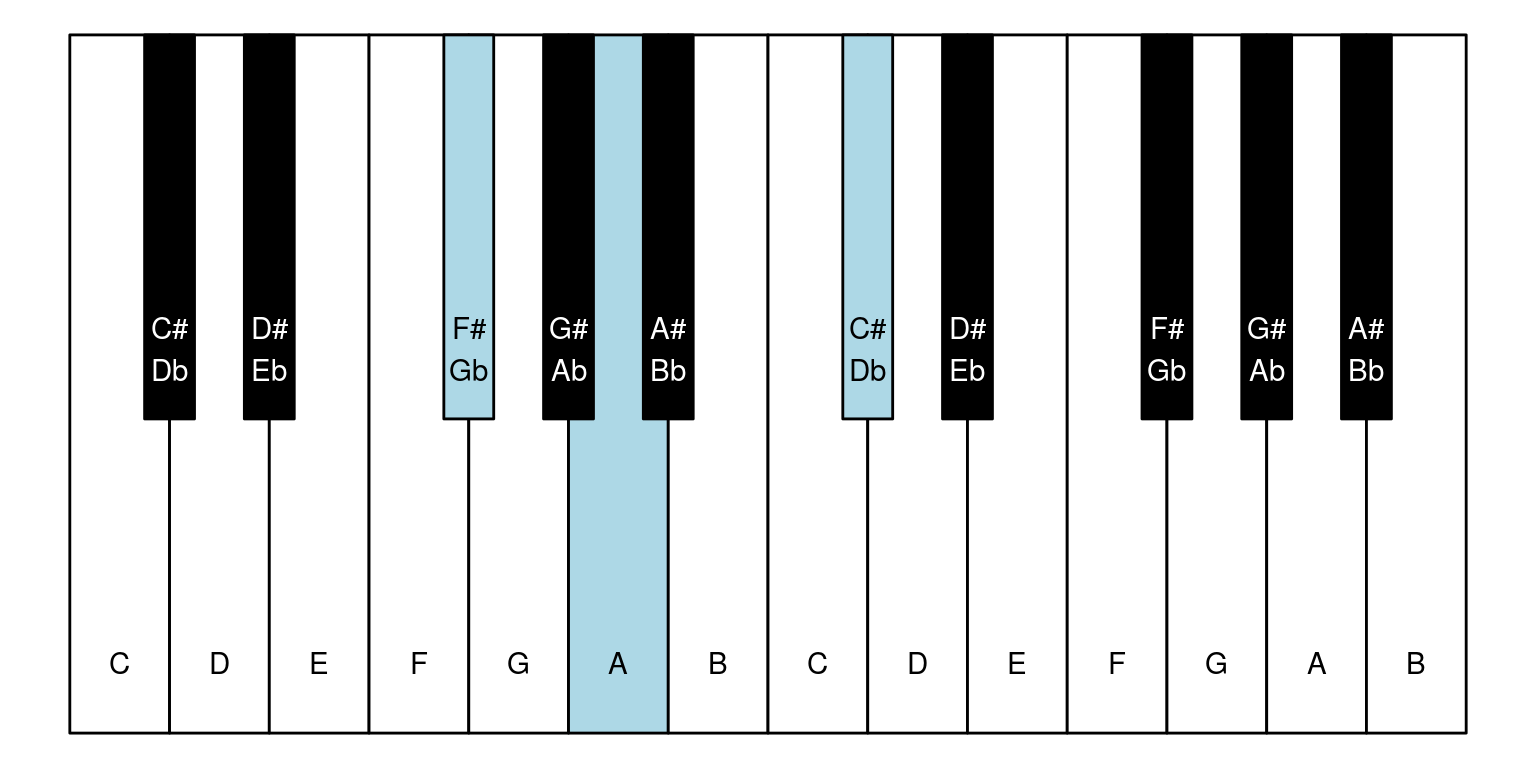
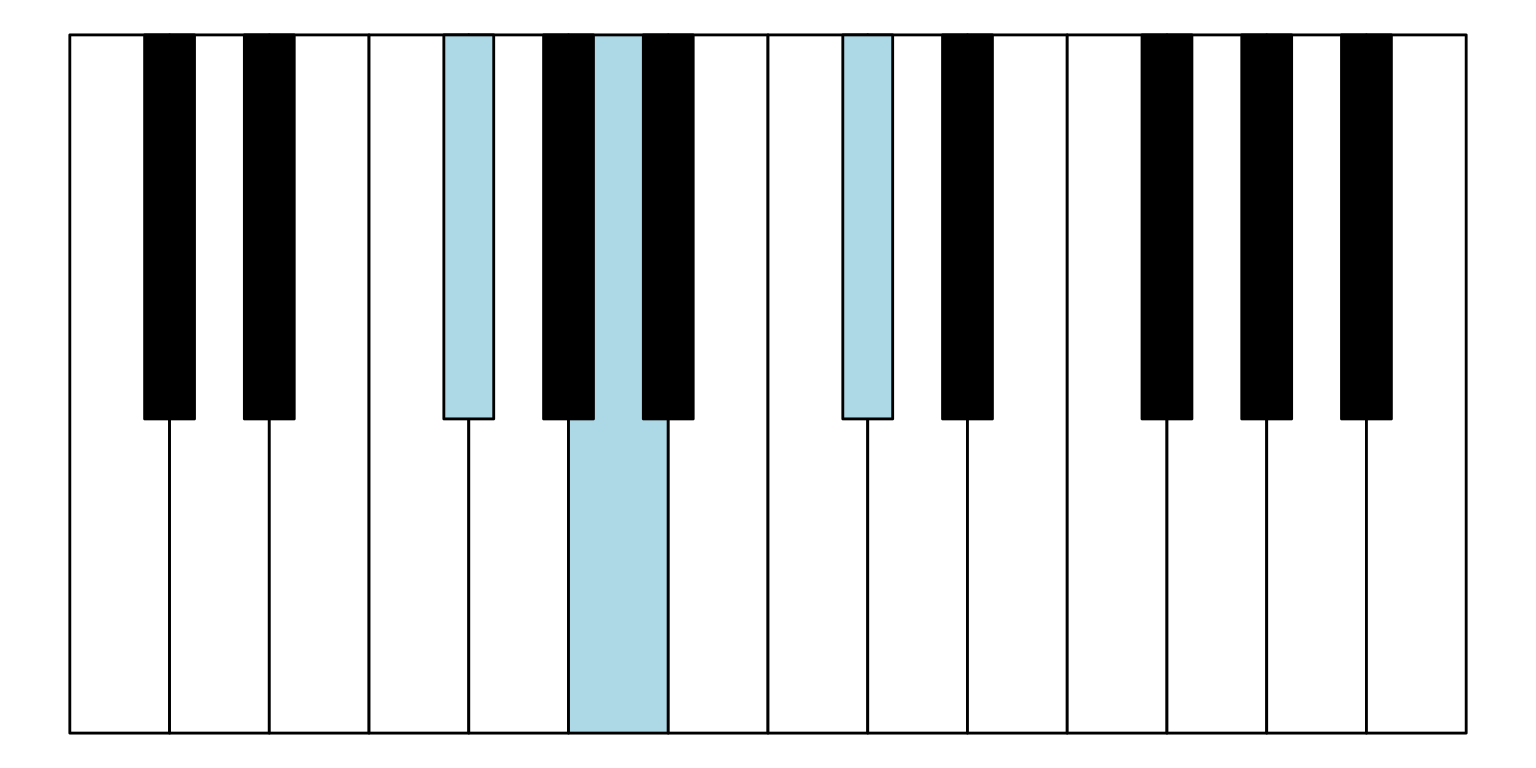
Changing to default labels = FALSE in ggpiano()

diff --git a/docs/articles/chord-sequence.html b/docs/articles/chord-sequence.html
@@ -100,7 +100,7 @@
 <a href="#minimal-example" class="anchor"></a>Minimal example</h1>
 <div class="sourceCode" id="cb2"><pre class="sourceCode r"><code class="sourceCode r"><a class="sourceLine" id="cb2-1" title="1">keys_coords <span class="op">%&gt;%</span><span class="st"> </span></a>
 <a class="sourceLine" id="cb2-2" title="2"><span class="st">  </span><span class="kw"><a href="../reference/highlight_key_sequence.html">highlight_key_sequence</a></span>(<span class="dt">key_sequence =</span> <span class="kw"><a href="https://www.rdocumentation.org/packages/base/topics/list">list</a></span>(<span class="kw"><a href="https://www.rdocumentation.org/packages/base/topics/c">c</a></span>(<span class="dv">1</span>, <span class="dv">2</span>, <span class="dv">3</span>), <span class="kw"><a href="https://www.rdocumentation.org/packages/base/topics/c">c</a></span>(<span class="dv">2</span>, <span class="dv">3</span>, <span class="dv">4</span>))) <span class="op">%&gt;%</span><span class="st"> </span></a>
-<a class="sourceLine" id="cb2-3" title="3"><span class="st">  </span><span class="kw"><a href="../reference/ggpiano.html">ggpiano</a></span>(<span class="dt">labels =</span> <span class="ot">FALSE</span>) <span class="op">+</span><span class="st"> </span></a>
+<a class="sourceLine" id="cb2-3" title="3"><span class="st">  </span><span class="kw"><a href="../reference/ggpiano.html">ggpiano</a></span>() <span class="op">+</span><span class="st"> </span></a>
 <a class="sourceLine" id="cb2-4" title="4"><span class="st">  </span><span class="kw"><a href="https://www.rdocumentation.org/packages/ggplot2/topics/facet_wrap">facet_wrap</a></span>(<span class="op">~</span><span class="st"> </span>seq_no)</a></code></pre></div>
 <p><img src="chord-sequence_files/figure-html/unnamed-chunk-2-1.png" width="768"></p>
 </div>
@@ -140,7 +140,7 @@
 <div class="sourceCode" id="cb4"><pre class="sourceCode r"><code class="sourceCode r"><a class="sourceLine" id="cb4-1" title="1">key_seq &lt;-<span class="st"> </span><span class="kw"><a href="https://www.rdocumentation.org/packages/base/topics/lapply">lapply</a></span>(chords, get_keys)</a></code></pre></div>
 <div class="sourceCode" id="cb5"><pre class="sourceCode r"><code class="sourceCode r"><a class="sourceLine" id="cb5-1" title="1">keys_coords <span class="op">%&gt;%</span><span class="st"> </span></a>
 <a class="sourceLine" id="cb5-2" title="2"><span class="st">  </span><span class="kw"><a href="../reference/highlight_key_sequence.html">highlight_key_sequence</a></span>(<span class="dt">key_sequence =</span> key_seq) <span class="op">%&gt;%</span><span class="st"> </span></a>
-<a class="sourceLine" id="cb5-3" title="3"><span class="st">  </span><span class="kw"><a href="../reference/ggpiano.html">ggpiano</a></span>(<span class="dt">labels =</span> <span class="ot">FALSE</span>) <span class="op">+</span><span class="st"> </span></a>
+<a class="sourceLine" id="cb5-3" title="3"><span class="st">  </span><span class="kw"><a href="../reference/ggpiano.html">ggpiano</a></span>() <span class="op">+</span><span class="st"> </span></a>
 <a class="sourceLine" id="cb5-4" title="4"><span class="st">  </span><span class="kw"><a href="https://www.rdocumentation.org/packages/ggplot2/topics/facet_wrap">facet_wrap</a></span>(<span class="op">~</span><span class="st"> </span>seq_no)</a></code></pre></div>
 <p><img src="chord-sequence_files/figure-html/unnamed-chunk-5-1.png" width="768"></p>
 <p>And get more helpful facet panel title:</p>
@@ -161,7 +161,7 @@
 <div class="sourceCode" id="cb7"><pre class="sourceCode r"><code class="sourceCode r"><a class="sourceLine" id="cb7-1" title="1">keys_coords <span class="op">%&gt;%</span><span class="st"> </span></a>
 <a class="sourceLine" id="cb7-2" title="2"><span class="st">  </span><span class="kw"><a href="../reference/highlight_key_sequence.html">highlight_key_sequence</a></span>(<span class="dt">key_sequence =</span> key_seq) <span class="op">%&gt;%</span><span class="st"> </span></a>
 <a class="sourceLine" id="cb7-3" title="3"><span class="st">  </span><span class="kw"><a href="https://dplyr.tidyverse.org/reference/join.html">left_join</a></span>(d_chord_nms, <span class="dt">by =</span> <span class="st">"seq_no"</span>) <span class="op">%&gt;%</span><span class="st"> </span></a>
-<a class="sourceLine" id="cb7-4" title="4"><span class="st">  </span><span class="kw"><a href="../reference/ggpiano.html">ggpiano</a></span>(<span class="dt">labels =</span> <span class="ot">FALSE</span>) <span class="op">+</span><span class="st"> </span></a>
+<a class="sourceLine" id="cb7-4" title="4"><span class="st">  </span><span class="kw"><a href="../reference/ggpiano.html">ggpiano</a></span>() <span class="op">+</span><span class="st"> </span></a>
 <a class="sourceLine" id="cb7-5" title="5"><span class="st">  </span><span class="kw"><a href="https://www.rdocumentation.org/packages/ggplot2/topics/facet_wrap">facet_wrap</a></span>(<span class="op">~</span><span class="st"> </span>seq_lbl)</a></code></pre></div>
 <p><img src="chord-sequence_files/figure-html/unnamed-chunk-7-1.png" width="768"></p>
 </div>
@@ -174,14 +174,14 @@ And with an exhaustive approach that is only feasible for shorter sequences.</p>
 <div class="sourceCode" id="cb9"><pre class="sourceCode r"><code class="sourceCode r"><a class="sourceLine" id="cb9-1" title="1">keys_coords <span class="op">%&gt;%</span><span class="st"> </span></a>
 <a class="sourceLine" id="cb9-2" title="2"><span class="st">  </span><span class="kw"><a href="../reference/highlight_key_sequence.html">highlight_key_sequence</a></span>(<span class="dt">key_sequence =</span> opt_res<span class="op">$</span>best) <span class="op">%&gt;%</span><span class="st"> </span></a>
 <a class="sourceLine" id="cb9-3" title="3"><span class="st">  </span><span class="kw"><a href="https://dplyr.tidyverse.org/reference/join.html">left_join</a></span>(d_chord_nms, <span class="dt">by =</span> <span class="st">"seq_no"</span>) <span class="op">%&gt;%</span><span class="st"> </span></a>
-<a class="sourceLine" id="cb9-4" title="4"><span class="st">  </span><span class="kw"><a href="../reference/ggpiano.html">ggpiano</a></span>(<span class="dt">labels =</span> <span class="ot">FALSE</span>) <span class="op">+</span><span class="st"> </span></a>
+<a class="sourceLine" id="cb9-4" title="4"><span class="st">  </span><span class="kw"><a href="../reference/ggpiano.html">ggpiano</a></span>() <span class="op">+</span><span class="st"> </span></a>
 <a class="sourceLine" id="cb9-5" title="5"><span class="st">  </span><span class="kw"><a href="https://www.rdocumentation.org/packages/ggplot2/topics/facet_wrap">facet_wrap</a></span>(<span class="op">~</span><span class="st"> </span>seq_lbl) <span class="op">+</span></a>
 <a class="sourceLine" id="cb9-6" title="6"><span class="st">  </span><span class="kw"><a href="https://www.rdocumentation.org/packages/ggplot2/topics/labs">labs</a></span>(<span class="dt">title =</span> <span class="st">"Best inversions"</span>)</a></code></pre></div>
 <p><img src="chord-sequence_files/figure-html/unnamed-chunk-9-1.png" width="768"></p>
 <div class="sourceCode" id="cb10"><pre class="sourceCode r"><code class="sourceCode r"><a class="sourceLine" id="cb10-1" title="1">keys_coords <span class="op">%&gt;%</span><span class="st"> </span></a>
 <a class="sourceLine" id="cb10-2" title="2"><span class="st">  </span><span class="kw"><a href="../reference/highlight_key_sequence.html">highlight_key_sequence</a></span>(<span class="dt">key_sequence =</span> opt_res<span class="op">$</span>worst) <span class="op">%&gt;%</span><span class="st"> </span></a>
 <a class="sourceLine" id="cb10-3" title="3"><span class="st">  </span><span class="kw"><a href="https://dplyr.tidyverse.org/reference/join.html">left_join</a></span>(d_chord_nms, <span class="dt">by =</span> <span class="st">"seq_no"</span>) <span class="op">%&gt;%</span><span class="st"> </span></a>
-<a class="sourceLine" id="cb10-4" title="4"><span class="st">  </span><span class="kw"><a href="../reference/ggpiano.html">ggpiano</a></span>(<span class="dt">labels =</span> <span class="ot">FALSE</span>) <span class="op">+</span><span class="st"> </span></a>
+<a class="sourceLine" id="cb10-4" title="4"><span class="st">  </span><span class="kw"><a href="../reference/ggpiano.html">ggpiano</a></span>() <span class="op">+</span><span class="st"> </span></a>
 <a class="sourceLine" id="cb10-5" title="5"><span class="st">  </span><span class="kw"><a href="https://www.rdocumentation.org/packages/ggplot2/topics/facet_wrap">facet_wrap</a></span>(<span class="op">~</span><span class="st"> </span>seq_lbl) <span class="op">+</span></a>
 <a class="sourceLine" id="cb10-6" title="6"><span class="st">  </span><span class="kw"><a href="https://www.rdocumentation.org/packages/ggplot2/topics/labs">labs</a></span>(<span class="dt">title =</span> <span class="st">"Worst inversions"</span>)</a></code></pre></div>
 <p><img src="chord-sequence_files/figure-html/unnamed-chunk-10-1.png" width="768"></p>

diff --git a/docs/articles/introduction.html b/docs/articles/introduction.html
@@ -114,13 +114,13 @@
 <p>Details for drawing a diagram of a piano:</p>
 <div class="sourceCode" id="cb3"><pre class="sourceCode r"><code class="sourceCode r"><a class="sourceLine" id="cb3-1" title="1"><span class="kw"><a href="../reference/ggpiano.html">ggpiano</a></span>(keys_coords)</a></code></pre></div>
 <p><img src="introduction_files/figure-html/unnamed-chunk-3-1.png" width="768"></p>
-<p>Remove key labels:</p>
-<div class="sourceCode" id="cb4"><pre class="sourceCode r"><code class="sourceCode r"><a class="sourceLine" id="cb4-1" title="1"><span class="kw"><a href="../reference/ggpiano.html">ggpiano</a></span>(keys_coords, <span class="dt">labels =</span> <span class="ot">FALSE</span>)</a></code></pre></div>
+<p>Add key labels:</p>
+<div class="sourceCode" id="cb4"><pre class="sourceCode r"><code class="sourceCode r"><a class="sourceLine" id="cb4-1" title="1"><span class="kw"><a href="../reference/ggpiano.html">ggpiano</a></span>(keys_coords, <span class="dt">labels =</span> <span class="ot">TRUE</span>)</a></code></pre></div>
 <p><img src="introduction_files/figure-html/unnamed-chunk-4-1.png" width="768"></p>
 <p>Highlight certain keys:</p>
 <div class="sourceCode" id="cb5"><pre class="sourceCode r"><code class="sourceCode r"><a class="sourceLine" id="cb5-1" title="1">keys_coords <span class="op">%&gt;%</span><span class="st"> </span></a>
 <a class="sourceLine" id="cb5-2" title="2"><span class="st">  </span><span class="kw"><a href="../reference/highlight_keys.html">highlight_keys</a></span>(<span class="dt">keys =</span> <span class="kw"><a href="https://www.rdocumentation.org/packages/base/topics/c">c</a></span>(<span class="dv">7</span>, <span class="dv">10</span>, <span class="dv">14</span>)) <span class="op">%&gt;%</span></a>
-<a class="sourceLine" id="cb5-3" title="3"><span class="st">  </span><span class="kw"><a href="../reference/ggpiano.html">ggpiano</a></span>()</a></code></pre></div>
+<a class="sourceLine" id="cb5-3" title="3"><span class="st">  </span><span class="kw"><a href="../reference/ggpiano.html">ggpiano</a></span>(<span class="dt">labels =</span> <span class="ot">TRUE</span>)</a></code></pre></div>
 <p><img src="introduction_files/figure-html/unnamed-chunk-5-1.png" width="768"></p>
 <p>Work with chords:</p>
 <div class="sourceCode" id="cb6"><pre class="sourceCode r"><code class="sourceCode r"><a class="sourceLine" id="cb6-1" title="1">chrd &lt;-<span class="st"> </span><span class="kw"><a href="../reference/construct_chord_raw.html">construct_chord_raw</a></span>(<span class="dt">root_tone =</span> <span class="st">"F#"</span>, <span class="dt">distances_rel =</span> <span class="kw"><a href="https://www.rdocumentation.org/packages/base/topics/c">c</a></span>(<span class="dv">4</span>, <span class="dv">3</span>))</a>

diff --git a/docs/articles/exhaustive-chart.html b/docs/articles/exhaustive-chart.html
@@ -166,7 +166,7 @@
 <a class="sourceLine" id="cb4-12" title="12">    </a>
 <a class="sourceLine" id="cb4-13" title="13">  p &lt;-<span class="st"> </span>keys_coords <span class="op">%&gt;%</span><span class="st"> </span></a>
 <a class="sourceLine" id="cb4-14" title="14"><span class="st">    </span><span class="kw"><a href="../reference/highlight_keys.html">highlight_keys</a></span>(<span class="dt">keys =</span> row <span class="op">%&gt;%</span><span class="st"> </span><span class="kw"><a href="https://dplyr.tidyverse.org/reference/pull.html">pull</a></span>(keys) <span class="op">%&gt;%</span><span class="st"> </span><span class="kw"><a href="https://www.rdocumentation.org/packages/base/topics/unlist">unlist</a></span>()) <span class="op">%&gt;%</span></a>
-<a class="sourceLine" id="cb4-15" title="15"><span class="st">    </span><span class="kw"><a href="../reference/ggpiano.html">ggpiano</a></span>(<span class="dt">labels =</span> <span class="ot">FALSE</span>) <span class="op">+</span><span class="st"> </span></a>
+<a class="sourceLine" id="cb4-15" title="15"><span class="st">    </span><span class="kw"><a href="../reference/ggpiano.html">ggpiano</a></span>() <span class="op">+</span><span class="st"> </span></a>
 <a class="sourceLine" id="cb4-16" title="16"><span class="st">    </span><span class="kw"><a href="https://www.rdocumentation.org/packages/ggplot2/topics/annotate">annotate</a></span>(<span class="dt">geom =</span> <span class="st">"text"</span>, <span class="dt">x =</span> <span class="fl">-0.075</span>, <span class="dt">y =</span> <span class="fl">0.5</span>, </a>
 <a class="sourceLine" id="cb4-17" title="17">             <span class="dt">size =</span> size,</a>
 <a class="sourceLine" id="cb4-18" title="18">             <span class="dt">lineheight =</span> <span class="fl">0.75</span>,</a>

diff --git a/docs/reference/ggpiano.html b/docs/reference/ggpiano.html
@@ -126,7 +126,7 @@
     
     </div>
 
-    <pre class="usage"><span class='fu'>ggpiano</span>(<span class='kw'>data</span> <span class='kw'>=</span> <span class='no'>keys_coords</span>, <span class='kw'>labels</span> <span class='kw'>=</span> <span class='fl'>TRUE</span>, <span class='no'>...</span>)</pre>
+    <pre class="usage"><span class='fu'>ggpiano</span>(<span class='kw'>data</span> <span class='kw'>=</span> <span class='no'>keys_coords</span>, <span class='kw'>labels</span> <span class='kw'>=</span> <span class='fl'>FALSE</span>, <span class='no'>...</span>)</pre>
     
     <h2 class="hasAnchor" id="arguments"><a class="anchor" href="#arguments"></a>Arguments</h2>
     <table class="ref-arguments">
